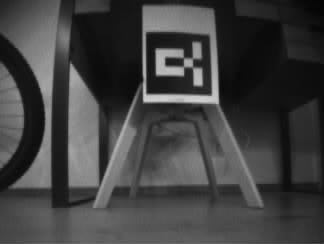
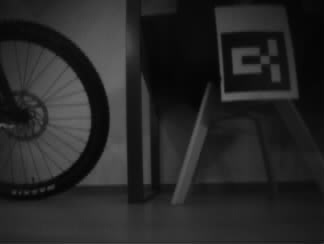
Implemented additional cf functions

diff --git a/application.py b/application.py
@@ -203,6 +203,13 @@ class CF:
         # z = up/down
         self.mc.move_distance(x, y, z, velocity=0.1)
 
+    def start_moving(self, vel_x, vel_y, vel_z):
+        # cf starts moving in straight line, must be ended with stop or redefinition
+        # vel_x = velocity forward/backward
+        # vel_y = velocity left/right
+        # vel_z = velocity up/down
+        self.mc.start_linear_motion(vel_x, vel_y, vel_z)
+
 
 if __name__ == "__main__":
     # Arguments for setting IP/port of AI-deck. Default settings are for when
@@ -281,12 +288,13 @@ if __name__ == "__main__":
         t1 = threading.Thread(target=fetch_image)
         t1.start()
         time.sleep(1)
-        while distance > 70:
+        crazyflie.start_moving(0.5,0,0)
+        while distance > 90:
             print(distance)
-            crazyflie.move(x=0.01, y=0, z=0)
+            # crazyflie.move(x=0.05, y=0, z=0)
             cv2.imshow('spm detection', image)
             cv2.waitKey(1)
-
+        crazyflie.stop()
         crazyflie.land()
         stop_thread_flag = True
         t1.join()
